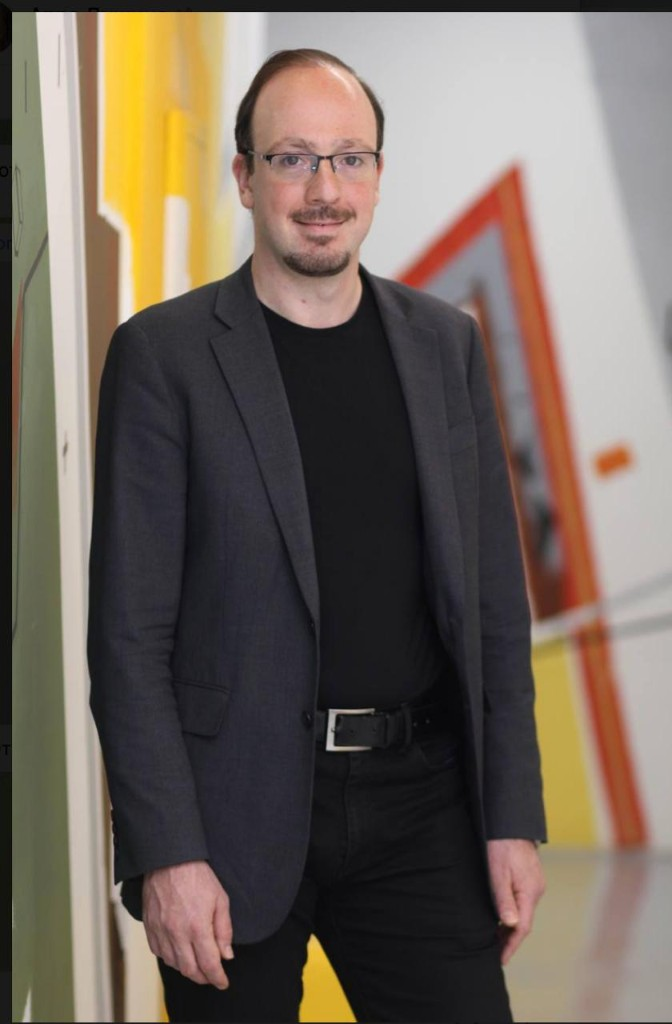
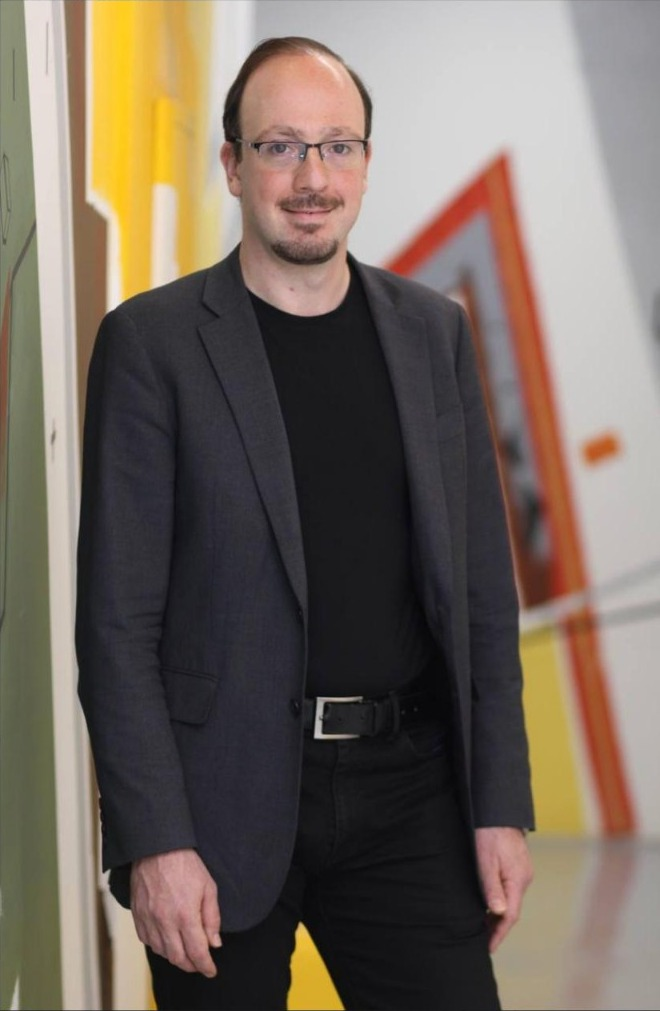
Crop the black frame out of Dr. Alex Desatnik's original photo.

diff --git a/team.html b/team.html
@@ -99,7 +99,7 @@
         <div class="team-profiles">
           <article class="card person-card card-tone-lilac team-profile">
             <div class="person-photo photo-tone-lilac" data-initials="AD">
-              <img src="assets/images/team/alex-desatnikov.jpg" alt="Dr. Alex Desatnik" width="672" height="1024" loading="lazy" onerror="this.setAttribute('data-failed','true')">
+              <img src="assets/images/team/alex-desatnikov.jpg?v=20260831c" alt="Dr. Alex Desatnik" width="660" height="1011" loading="lazy" onerror="this.setAttribute('data-failed','true')">
             </div>
             <div class="team-profile-copy">
               <h2>Dr. Alex Desatnik</h2>
